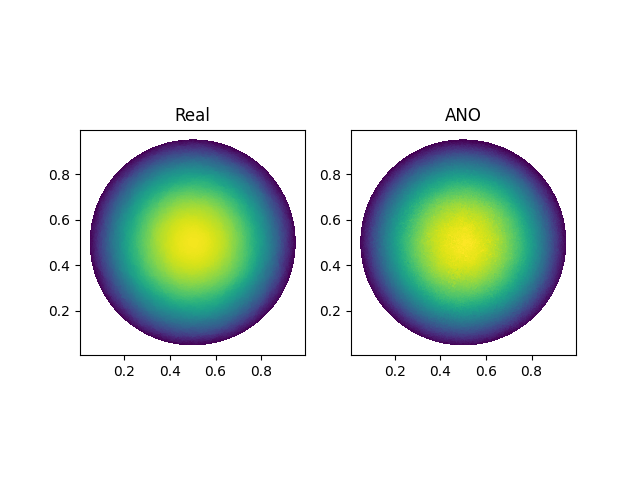
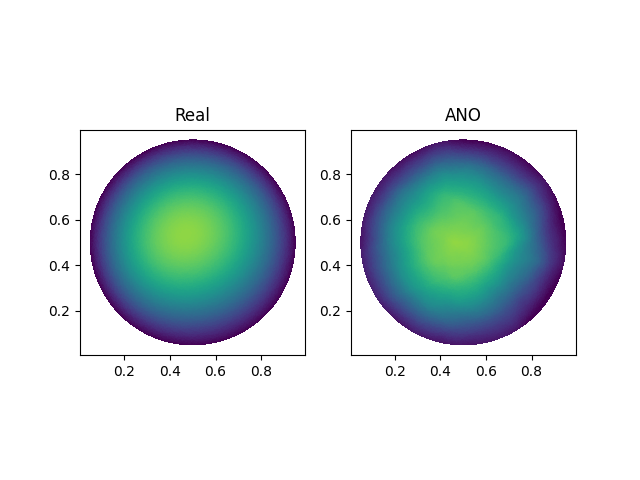
update everything after dataset change

Changed region(s): [[0.625, 0.3438, 0.875, 0.6875], [0.2188, 0.375, 0.4375, 0.7188], [0.5625, 0.5312, 0.5938, 0.625]]

diff --git a/deeponet_reg.py b/deeponet_reg.py
@@ -5,18 +5,18 @@ import numpy as np
 from tqdm import trange
 from torch.func import vmap,hessian
 from time import time
-a=DarcyFlowCircle(10)
+a=DarcyFlowCircle(5)
 triangles=a.triangles
 sc_matrix=a.sc_matrix
-points=a.points
+points=a.points.cuda()
 train_dataloader=a.train_loader
 test_dataloader=a.test_loader
 len_points=len(points)
-_,a,b=a.train_dataset.tensors
-a_max=torch.max(a)
-a_min=torch.min(a)
-b_max=torch.max(b)
-b_min=torch.min(b)
+a,b=a.train_dataset.tensors
+a_max=torch.max(a).cuda()
+a_min=torch.min(a).cuda()
+b_max=torch.max(b).cuda()
+b_min=torch.min(b).cuda()
 
 class DeepONet(nn.Module):
     def __init__(self,
@@ -67,10 +67,10 @@ class SimpleDeepONet(nn.Module):
 def laplacian(f,x,points):
   return torch.diagonal(vmap(vmap(hessian(f,argnums=1),in_dims=(None,0)),in_dims=(0,None))(x,points),dim1 = -2, dim2 = -1).sum(axis=2)
 
-index_subset=torch.randperm(len_points)[:1000]
+index_subset=torch.randperm(len_points)[:1000].cuda()
 
 
-non_vec_model=SimpleDeepONet(1000,20)
+non_vec_model=SimpleDeepONet(1000,20).cuda()
 
 def model_1(x,points):
     return torch.vmap(non_vec_model,in_dims=(None,0))(x,points)
@@ -85,7 +85,7 @@ def model_eval(x,points):
     return torch.vmap(model_1_eval,in_dims=(0,None))(x,points)
 
 
-Epochs=1
+Epochs=10
 optimizer=torch.optim.Adam(non_vec_model.parameters(),lr=0.001)
 loss_fn=nn.MSELoss()
 sup_m=0
@@ -93,7 +93,9 @@ low_m=0
 for epoch in trange(Epochs):
     for batch in train_dataloader:
         optimizer.zero_grad()
-        _,v,u=batch
+        v,u=batch
+        v=v.cuda()
+        u=u.cuda()
         v=(v-a_min)/(a_max-a_min)
         u=(u-b_min)/(b_max-b_min)
         v=v.reshape(v.shape[0],-1)
@@ -108,8 +110,8 @@ for epoch in trange(Epochs):
             low_m+=torch.sum(torch.linalg.norm(u,axis=1)**2)/(len(train_dataloader))
     with torch.no_grad():
         print(f'Epoch: {epoch}, Loss: {torch.sqrt(sup_m/low_m)}')
-        print(np.var(pred.numpy()))
-        print(np.var(u.numpy()))
+        print(torch.var(pred))
+        print(torch.var(u))
 
 def norm(u):
     return u@sc_matrix@u.T
@@ -119,12 +121,14 @@ sup_train_loss=0
 low_train_loss=0
 with torch.no_grad():
     for batch in train_dataloader:
-        _,v,u=batch
+        v,u=batch
+        v=v.cuda()
+        u=u.cuda()
         pred=model_eval(v[:,index_subset],points)
         u=u.reshape(u.shape[0],-1)
         pred=pred.reshape(pred.shape[0],-1)
-        u=u.numpy()
-        pred=pred.numpy()
+        u=u.cpu().numpy()
+        pred=pred.cpu().numpy()
         train_rel_loss+=np.mean(np.sqrt(np.diag(norm(u-pred)/np.diag(norm(u)))))/len(train_dataloader)
 
 print(train_rel_loss)
@@ -134,12 +138,14 @@ sup_test_loss=0
 low_test_loss=0
 with torch.no_grad():
     for batch in test_dataloader:
-        _,v,u=batch
+        v,u=batch
+        v=v.cuda()
+        u=u.cuda()
         pred=model_eval(v[:,index_subset],points)
         u=u.reshape(u.shape[0],-1)
         pred=pred.reshape(pred.shape[0],-1)
-        u=u.numpy()
-        pred=pred.numpy()
+        u=u.cpu().numpy()
+        pred=pred.cpu().numpy()
         test_rel_loss+=np.mean(np.sqrt(np.diag(norm(u-pred)/np.diag(norm(u)))))/len(test_dataloader)
 
 
@@ -148,7 +154,7 @@ print(test_rel_loss)
 
 import matplotlib.pyplot as plt
 import matplotlib.tri as tri
-
+points=points.cpu().numpy()
 triang=tri.Triangulation(points[:,0],points[:,1],triangles)
 fig1, ax1 = plt.subplots(1,2)
 ax1[0].set_aspect('equal')

diff --git a/deeponet.py b/deeponet.py
@@ -6,15 +6,15 @@ from tqdm import trange
 a=DarcyFlowCircle(10)
 triangles=a.triangles
 sc_matrix=a.sc_matrix
-points=a.points
+points=a.points.cuda()
 train_dataloader=a.train_loader
 test_dataloader=a.test_loader
 len_points=len(points)
-_,a,b=a.train_dataset.tensors
-a_max=torch.max(a)
-a_min=torch.min(a)
-b_max=torch.max(b)
-b_min=torch.min(b)
+a,b=a.train_dataset.tensors
+a_max=torch.max(a).cuda()
+a_min=torch.min(a).cuda()
+b_max=torch.max(b).cuda()
+b_min=torch.min(b).cuda()
 
 class DeepONet(nn.Module):
     def __init__(self,
@@ -39,7 +39,7 @@ class DeepONet(nn.Module):
     
 index_subset=torch.randperm(len_points)[:1000]
 
-model=DeepONet(1000,20)
+model=DeepONet(1000,20).cuda()
 Epochs=100
 optimizer=torch.optim.Adam(model.parameters(),lr=0.001)
 loss_fn=nn.MSELoss()
@@ -48,7 +48,9 @@ low_m=0
 for epoch in trange(Epochs):
     for batch in train_dataloader:
         optimizer.zero_grad()
-        _,v,u=batch
+        v,u=batch
+        v=v.cuda()
+        u=u.cuda()
         v=(v-a_min)/(a_max-a_min)
         u=(u-b_min)/(b_max-b_min)
         v=v.reshape(v.shape[0],-1)
@@ -63,8 +65,8 @@ for epoch in trange(Epochs):
             low_m+=torch.sum(torch.linalg.norm(u,axis=1)**2)/(len(train_dataloader))
     with torch.no_grad():
         print(f'Epoch: {epoch}, Loss: {torch.sqrt(sup_m/low_m)}')
-        print(np.var(pred.numpy()))
-        print(np.var(u.numpy()))
+        print(torch.var(pred))
+        print(torch.var(u))
 
 model=model.eval()
 
@@ -76,13 +78,15 @@ sup_train_loss=0
 low_train_loss=0
 with torch.no_grad():
     for batch in train_dataloader:
-        _,v,u=batch
+        v,u=batch
+        v=v.cuda()
+        u=u.cuda()
         pred=model.forward_eval(v[:,index_subset],points)
         u=u.reshape(u.shape[0],-1)
         pred=pred.reshape(pred.shape[0],-1)
-        u=u.numpy()
-        pred=pred.numpy()
-        train_rel_loss+=np.mean(np.sqrt(np.diag(norm(u-pred)/np.diag(norm(u)))))/len(train_dataloader)
+        u=u.cpu().numpy()
+        pred=pred.cpu().numpy()
+        train_rel_loss+=np.mean(np.sqrt(np.diag(norm(u-pred))/np.diag(norm(u))))/len(train_dataloader)
 
 print(train_rel_loss)
 
@@ -91,14 +95,15 @@ sup_test_loss=0
 low_test_loss=0
 with torch.no_grad():
     for batch in test_dataloader:
-        _,v,u=batch
+        v,u=batch
+        v=v.cuda()
+        u=u.cuda()
         pred=model.forward_eval(v[:,index_subset],points)
         u=u.reshape(u.shape[0],-1)
         pred=pred.reshape(pred.shape[0],-1)
-        u=u.numpy()
-        pred=pred.numpy()
-        test_rel_loss+=np.mean(np.sqrt(np.diag(norm(u-pred)/np.diag(norm(u)))))/len(test_dataloader)
-
+        u=u.cpu().numpy()
+        pred=pred.cpu().numpy()
+        test_rel_loss+=np.mean(np.sqrt(np.diag(norm(u-pred))/np.diag(norm(u))))/len(test_dataloader)
 
 print(test_rel_loss)
 
@@ -106,6 +111,7 @@ print(test_rel_loss)
 import matplotlib.pyplot as plt
 import matplotlib.tri as tri
 
+points=points.cpu().numpy()
 triang=tri.Triangulation(points[:,0],points[:,1],triangles)
 fig1, ax1 = plt.subplots(1,2)
 ax1[0].set_aspect('equal')

diff --git a/ano.py b/ano.py
@@ -6,15 +6,15 @@ from tqdm import trange
 a=DarcyFlowCircle(10)
 triangles=a.triangles
 sc_matrix=a.sc_matrix
-points=a.points
+points=a.points.cuda()
 train_dataloader=a.train_loader
 test_dataloader=a.test_loader
 len_points=len(points)
-_,a,b=a.train_dataset.tensors
-a_max=torch.max(a)
-a_min=torch.min(a)
-b_max=torch.max(b)
-b_min=torch.min(b)
+a,b=a.train_dataset.tensors
+a_max=torch.max(a).cuda()
+a_min=torch.min(a).cuda()
+b_max=torch.max(b).cuda()
+b_min=torch.min(b).cuda()
 
 #Averaging Neural Operator
 class ANOLayer(nn.Module):
@@ -65,7 +65,7 @@ class ANO(nn.Module):
 
 
     
-model=ANO(1,1,100,points,10)
+model=ANO(1,1,100,points,10).cuda()
 Epochs=10
 optimizer=torch.optim.Adam(model.parameters(),lr=0.0001)    
 loss_fn=nn.MSELoss()
@@ -74,7 +74,9 @@ low_m=0
 for epoch in trange(Epochs):
     for batch in train_dataloader:
         optimizer.zero_grad()
-        _,v,u=batch
+        v,u=batch
+        v=v.cuda()
+        u=u.cuda()
         v=(v-a_min)/(a_max-a_min)
         u=(u-b_min)/(b_max-b_min)
         v=v.reshape(v.shape[0],-1,1)
@@ -89,8 +91,8 @@ for epoch in trange(Epochs):
             low_m+=torch.sum(torch.linalg.norm(u,axis=1)**2)/(len(train_dataloader))
     with torch.no_grad():
         print(f'Epoch: {epoch}, Loss: {torch.sqrt(sup_m/low_m)}')
-        print(np.var(pred.numpy()))
-        print(np.var(u.numpy()))
+        print(torch.var(pred))
+        print(torch.var(u))
 
 model=model.eval()
 
@@ -102,13 +104,15 @@ sup_train_loss=0
 low_train_loss=0
 with torch.no_grad():
     for batch in train_dataloader:
-        _,v,u=batch
+        v,u=batch
+        v=v.cuda()
+        u=u.cuda()
         v=v.reshape(v.shape[0],-1,1)
         pred=model.forward_eval(v)
         u=u.reshape(u.shape[0],-1)
         pred=pred.reshape(pred.shape[0],-1)
-        u=u.numpy()
-        pred=pred.numpy()
+        u=u.cpu().numpy()
+        pred=pred.cpu().numpy()
         train_rel_loss+=np.mean(np.sqrt(np.diag(norm(u-pred)/np.diag(norm(u)))))/len(train_dataloader)
 
 print(train_rel_loss)
@@ -118,13 +122,15 @@ sup_test_loss=0
 low_test_loss=0
 with torch.no_grad():
     for batch in test_dataloader:
-        _,v,u=batch
+        v,u=batch
+        v=v.cuda()
+        u=u.cuda()  
         v=v.reshape(v.shape[0],-1,1)
         pred=model.forward_eval(v)
         u=u.reshape(u.shape[0],-1)
         pred=pred.reshape(pred.shape[0],-1)
-        u=u.numpy()
-        pred=pred.numpy()
+        u=u.cpu().numpy()
+        pred=pred.cpu().numpy()
         test_rel_loss+=np.mean(np.sqrt(np.diag(norm(u-pred)/np.diag(norm(u)))))/len(test_dataloader)
 
 
@@ -133,7 +139,7 @@ print(test_rel_loss)
 
 import matplotlib.pyplot as plt
 import matplotlib.tri as tri
-
+points=points.cpu().numpy()
 triang=tri.Triangulation(points[:,0],points[:,1],triangles)
 fig1, ax1 = plt.subplots(1,2)
 ax1[0].set_aspect('equal')

diff --git a/vno.py b/vno.py
@@ -189,7 +189,7 @@ model=PreVNO(12,12,100,points).cuda()
 model_parameters = filter(lambda p: p.requires_grad, model.parameters())
 params = sum([np.prod(p.size()) for p in model_parameters])
 print(params)
-_,a,b=a.train_dataset.tensors
+a,b=a.train_dataset.tensors
 a_max=torch.max(a).cuda()
 a_min=torch.min(a).cuda()
 b_max=torch.max(b).cuda()
@@ -206,7 +206,7 @@ for epoch in trange(Epochs):
     start=time()
     for batch in train_dataloader:
         optimizer.zero_grad()
-        _,v,u=batch
+        v,u=batch
         v=v.reshape(v.shape[0],-1,1).cuda()
         u=u.reshape(u.shape[0],-1,1).cuda()
         v=(v-a_min)/(a_max-a_min)
@@ -241,7 +241,7 @@ sup_train_loss=0
 low_train_loss=0
 with torch.no_grad():
     for batch in train_dataloader:
-        _,v,u=batch
+        v,u=batch
         v=v.reshape(v.shape[0],-1,1).cuda()
         v=(v-a_min)/(a_max-a_min)
         pred=model.forward(v)*(b_max-b_min)+b_min
@@ -258,7 +258,7 @@ sup_test_loss=0
 low_test_loss=0
 with torch.no_grad():
     for batch in test_dataloader:
-        _,v,u=batch
+        v,u=batch
         v=v.reshape(v.shape[0],-1,1).cuda()
         v=(v-a_min)/(a_max-a_min)
         pred=model.forward(v)*(b_max-b_min)+b_min

diff --git a/README.md b/README.md
@@ -8,7 +8,7 @@ performances, are summed up here.
 
 |   Model     |rel u train error|rel u test error| 
 |-------------|-----------------|----------------|
-|DeepONet     |9.3e-01          |9.3e-01         |
-|DeepONet-reg |4.5e-01          |4.5e-01         |
-|ANO          |1.2e-00          |1.2e-00         |
-|VNO          |3.7e-01          |3.7e-01         |
+|DeepONet     |4.9e-01          |4.8e-01         |
+|DeepONet-reg |1.6e-01          |1.4e-01         |
+|ANO          |2.0e-00          |1.8e-00         |
+|VNO          |2.2e-01          |2.1e-01         |
